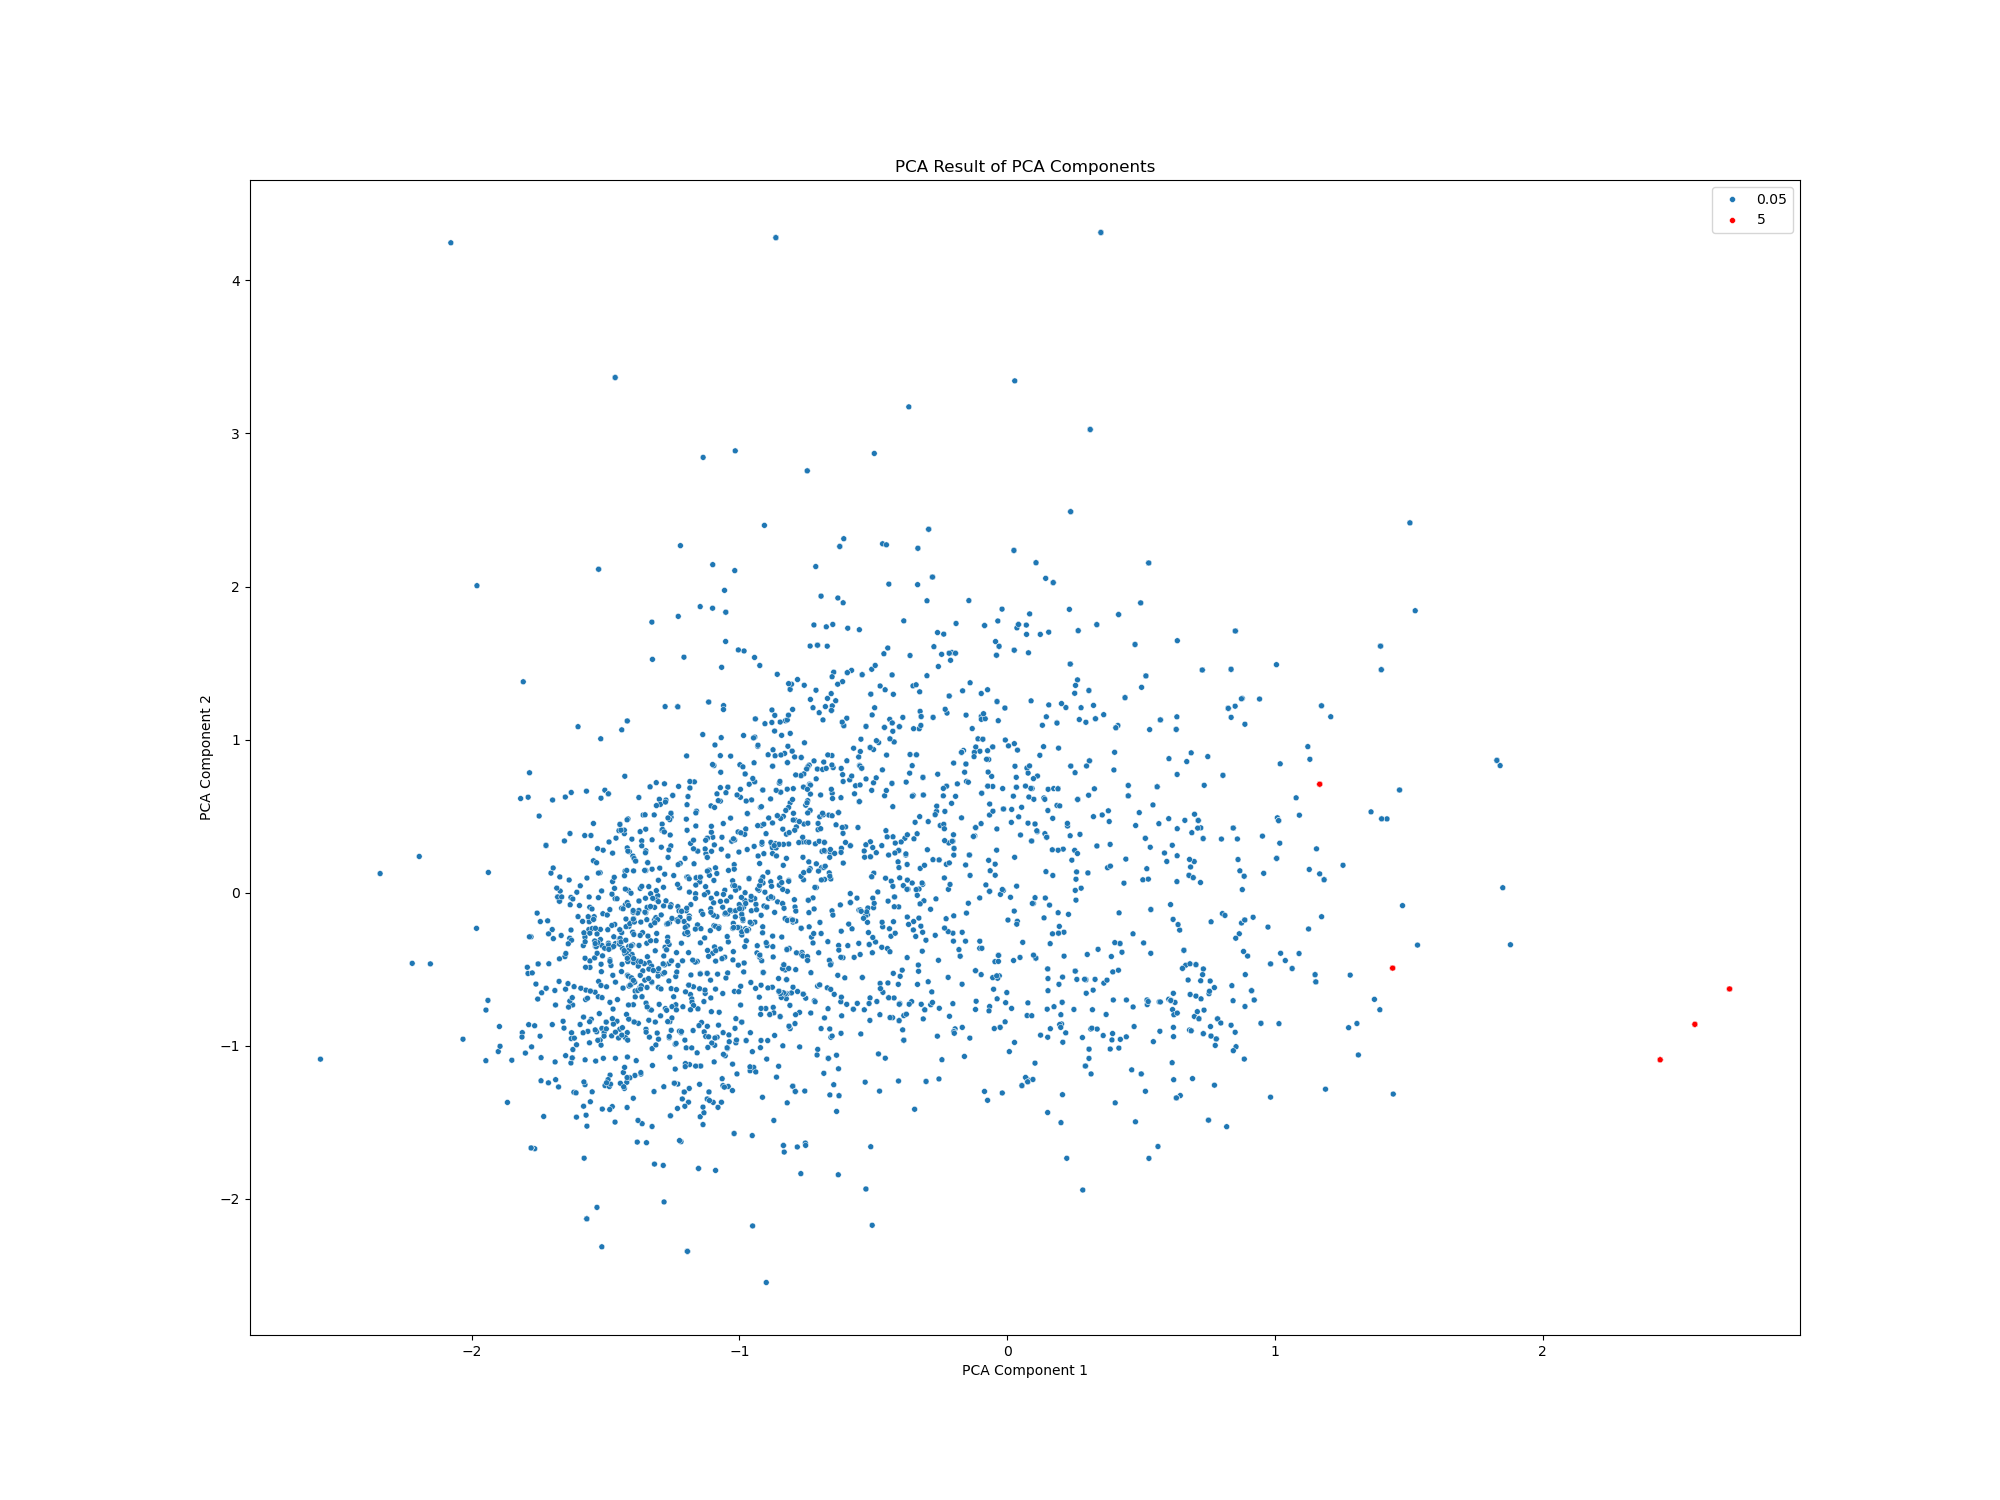
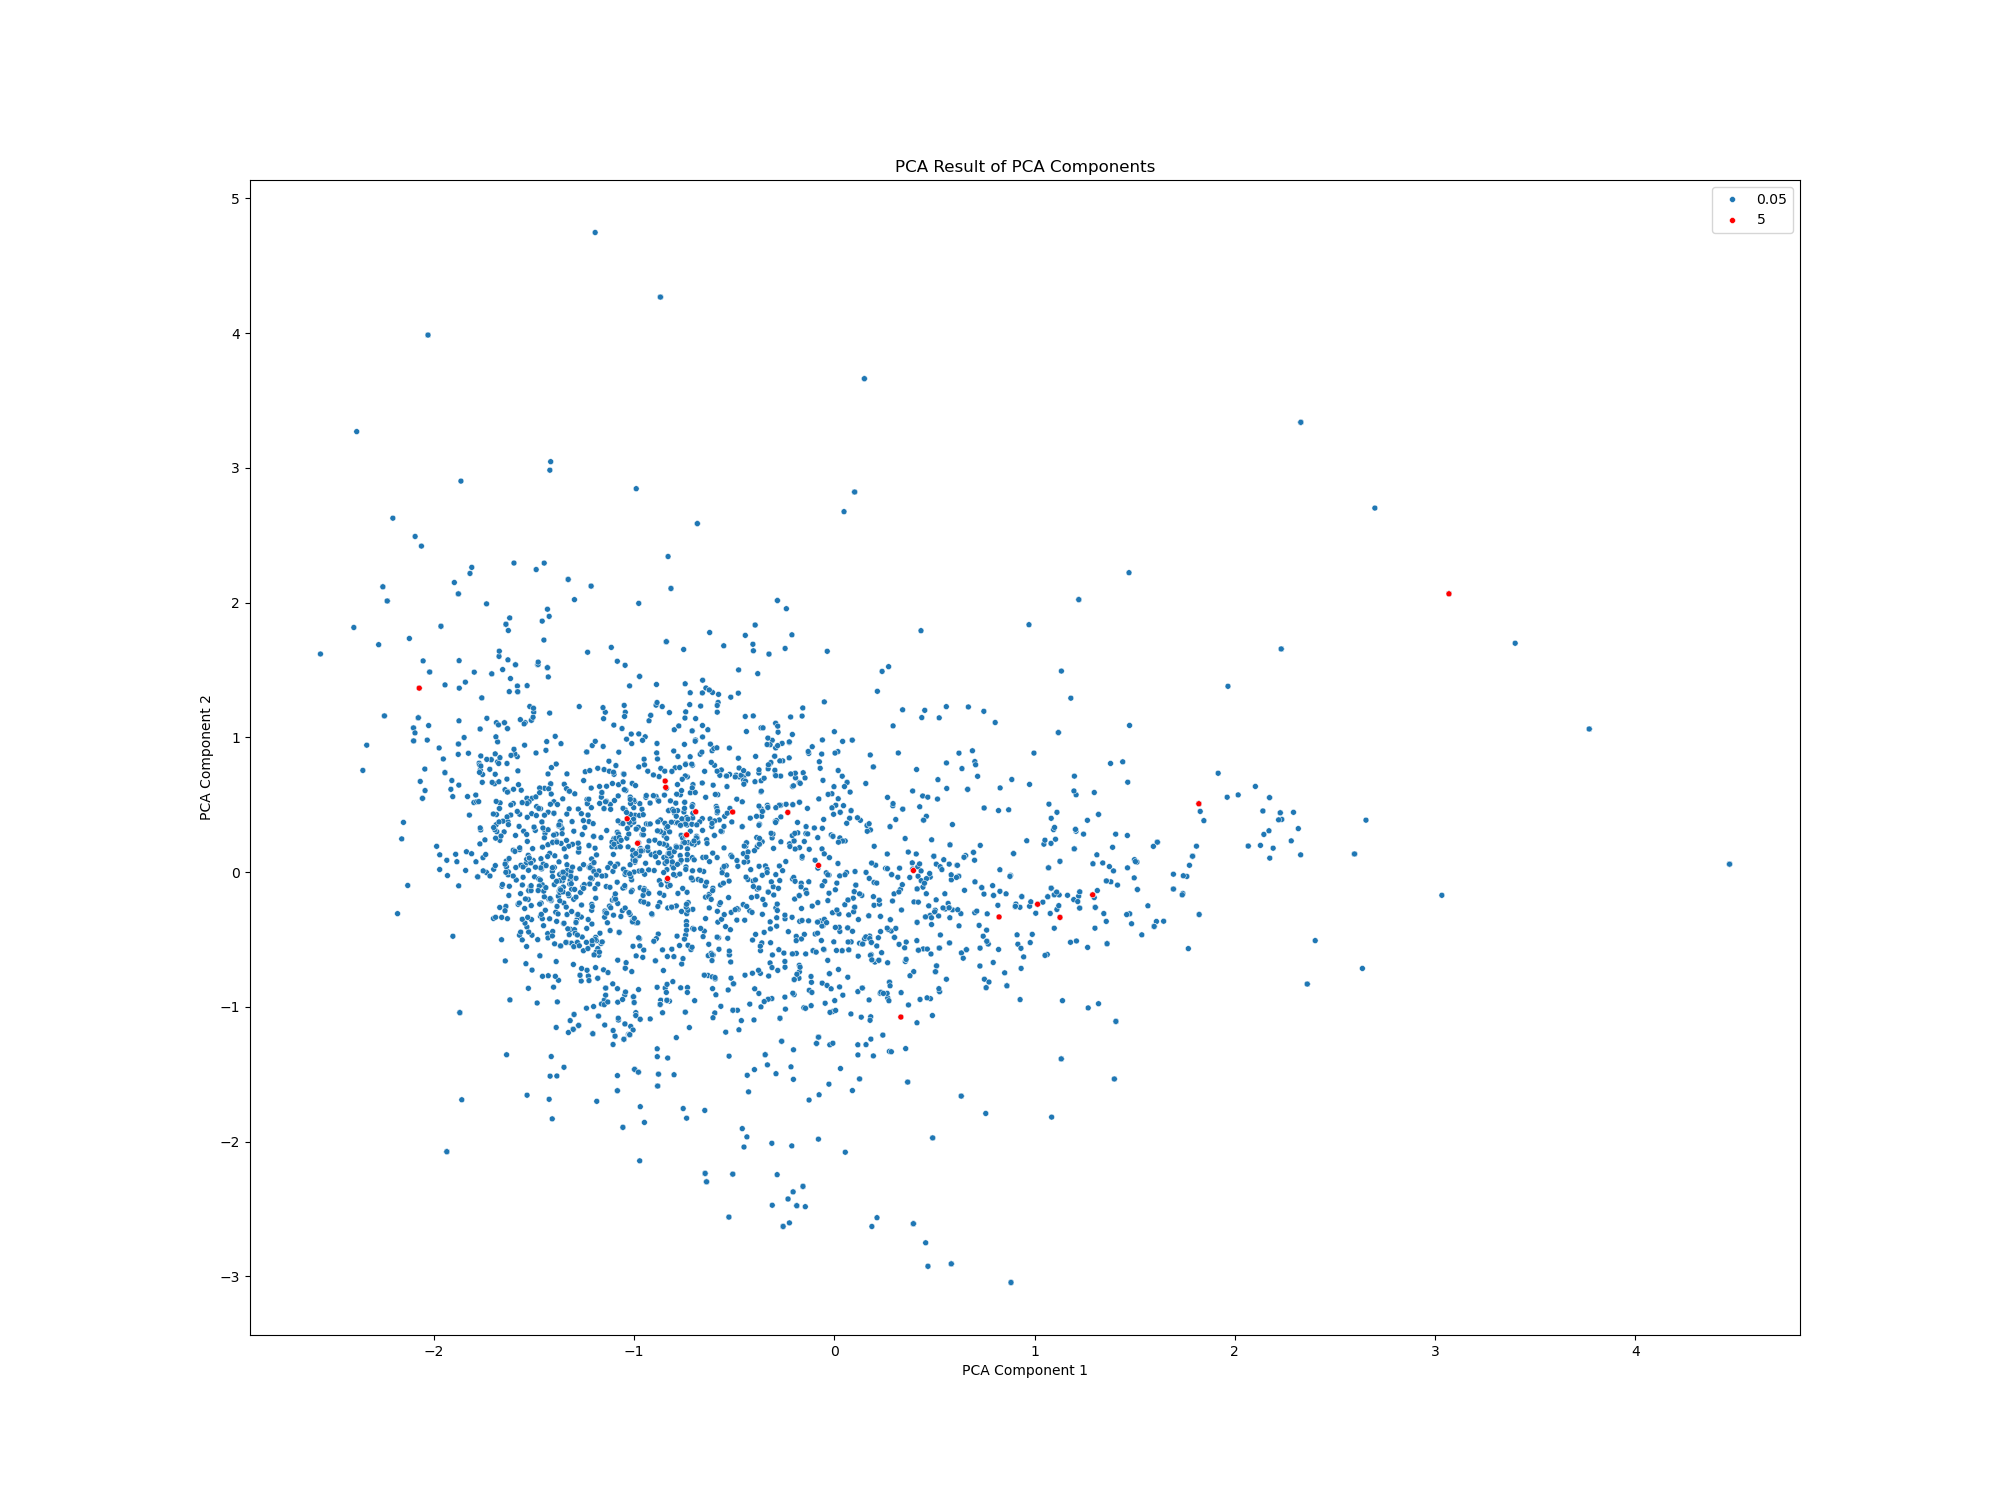
Sep 08 updated regulation graph of predict results

Changed region(s): [[0.217, 0.4293, 0.651, 0.7667], [0.527, 0.46, 0.558, 0.4907], [0.496, 0.3987, 0.527, 0.4293]]

diff --git a/plots/regu_graph/gene_embd_pca.py b/plots/regu_graph/gene_embd_pca.py
@@ -10,15 +10,16 @@ import seaborn as sns
 
 con_embd_df = pd.read_csv('dataset/embedding/embeddings_preprocess_modified.txt', sep=' ', header=None, index_col=0)
 goa_df = pd.read_csv('rules/goa_gene2go.csv', header=None, index_col=0)
-res_df = pd.read_csv('predict/results/res_NADK.txt', sep='\t', index_col=0)
+res_df = pd.read_csv('predict/results/res_0.txt', sep='\t', index_col=0)
 
 gene_embd_matrix = []
 
 for g, row in tqdm(goa_df.iterrows(), total=len(goa_df)):
     concept_set = eval(row[1])
 
-    embd_subdf = con_embd_df.loc[con_embd_df.index.isin(concept_set)].reset_index()
-    gene_embd = embd_subdf.mean()
+    embd_subdf = con_embd_df.loc[con_embd_df.index.isin(concept_set)]
+    #print(embd_subdf)
+    gene_embd = embd_subdf.mean(axis=0)
     
     gene_embd_matrix.append(list(gene_embd))
 

diff --git a/plots/regu_graph/plot_pred.py b/plots/regu_graph/plot_pred.py
@@ -18,12 +18,12 @@ gene_embd = np.load('plots/regu_graph/gene_embd_pca.npy')
 gene_embd = gene_embd.transpose()
 gene_df = pd.DataFrame({'pca0':gene_embd[0], 'pca1':gene_embd[1]}, index=goa_df.index)
 
-res_df = pd.read_csv('predict/results/res_PPX.txt', sep='\t')
+res_df = pd.read_csv('predict/results/res_3.txt', sep='\t')
 gene_res = set(res_df['gene_id'])
 
 
 
-G = nx.Graph()
+G = nx.DiGraph()
 
 # 添加节点及其坐标
 for gene, pca_pos in tqdm(gene_df.iterrows(), total=len(gene_df)):
